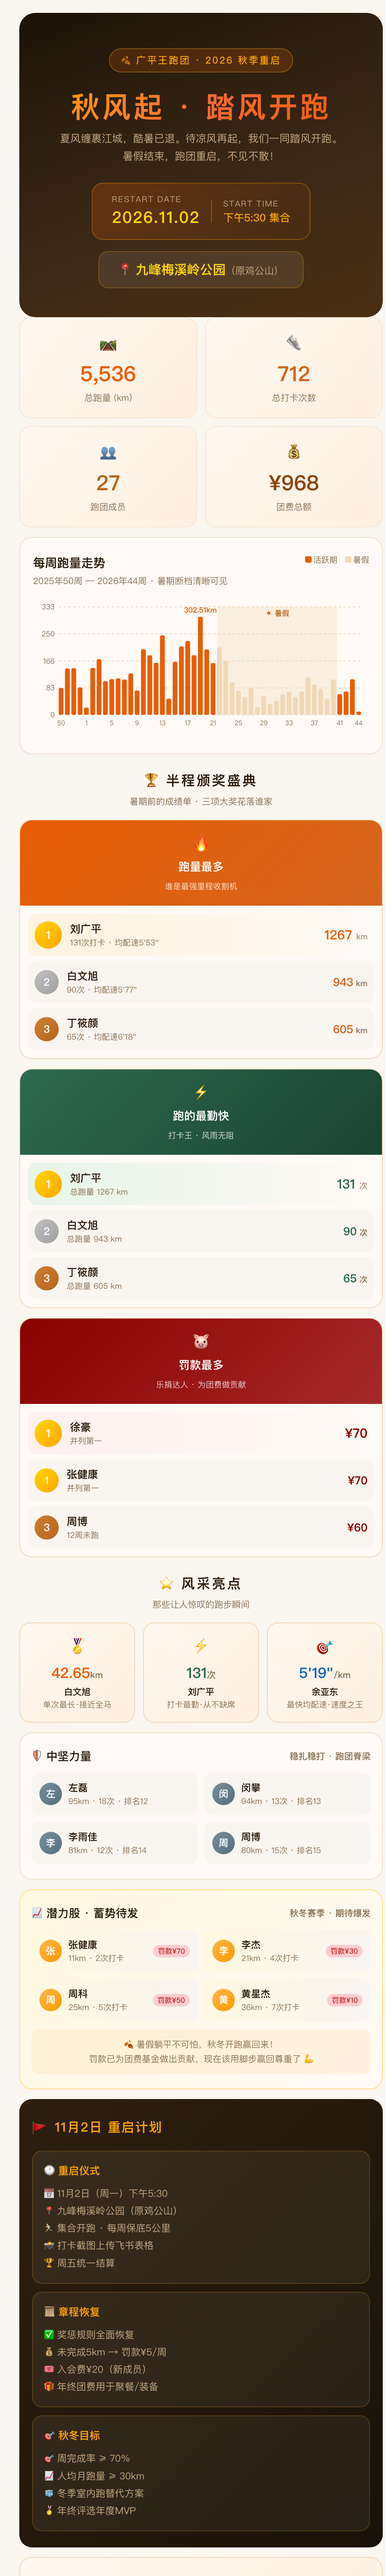
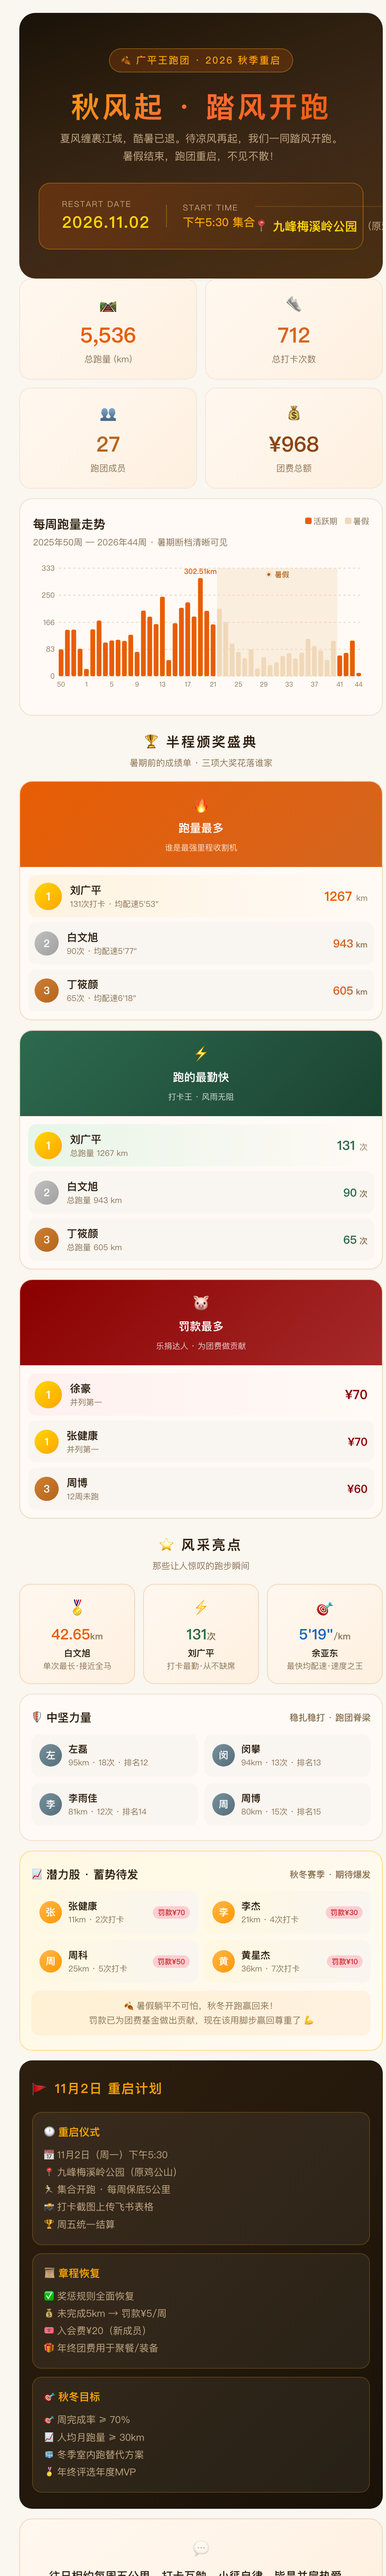
重构Hero信息区：地址整合到时间下方，统一卡片布局

Changed region(s): [[0.0312, 0.0625, 1.0, 1.0], [0.9062, 0.1875, 0.9375, 0.2188], [0.3438, 0.6875, 0.375, 0.7188]]

diff --git a/index.html b/index.html
@@ -15,13 +15,16 @@ body{font-family:-apple-system,'PingFang SC','Noto Sans SC','Segoe UI',sans-seri
 .hero-badge{display:inline-block;padding:5px 14px;border-radius:999px;background:rgba(232,93,4,0.2);border:1px solid rgba(255,182,39,0.3);margin-bottom:20px;font-size:12px;letter-spacing:1.5px;color:#FAA307;font-weight:500;}
 .hero h1{font-size:36px;font-weight:700;margin:0 0 6px;letter-spacing:3px;line-height:1.25;background:linear-gradient(135deg,#FAA307,#FF6B35,#E85D04);-webkit-background-clip:text;-webkit-text-fill-color:transparent;background-clip:text;color:#FAA307;}
 .hero p{font-size:13px;color:#c4a884;margin:0 0 22px;line-height:1.7;}
-.hero-date{display:inline-flex;display:-webkit-inline-flex;align-items:center;-webkit-align-items:center;gap:14px;padding:12px 24px;border-radius:14px;background:linear-gradient(135deg,rgba(232,93,4,0.25),rgba(74,47,18,0.4));border:1px solid rgba(250,163,7,0.35);}
+.hero-info{display:inline-block;display:-webkit-inline-box;padding:16px 28px;border-radius:14px;background:linear-gradient(135deg,rgba(232,93,4,0.25),rgba(74,47,18,0.4));border:1px solid rgba(250,163,7,0.35);text-align:left;}
+.hero-info-row{display:flex;display:-webkit-flex;align-items:center;-webkit-align-items:center;gap:20px;}
+.hero-info-item{text-align:left;}
 .hero-date-label{font-size:10px;color:#c4a884;letter-spacing:1px;}
 .hero-date-value{font-size:20px;font-weight:700;color:#FFD60A;letter-spacing:1px;}
 .hero-divider{width:1px;height:28px;background:rgba(255,214,10,0.3);}
-.hero-date-value2{font-size:13px;font-weight:500;color:#FAA307;}
-.hero-location{margin-top:14px;display:inline-block;display:-webkit-inline-box;padding:10px 24px;border-radius:12px;background:rgba(255,255,255,0.08);border:1px solid rgba(250,163,7,0.25);}
-.hero-location-name{font-size:16px;font-weight:600;color:#FFD60A;}
+.hero-date-value2{font-size:14px;font-weight:500;color:#FAA307;}
+.hero-location-row{margin-top:12px;padding-top:12px;border-top:1px solid rgba(250,163,7,0.2);display:flex;display:-webkit-flex;align-items:center;-webkit-align-items:center;gap:6px;}
+.hero-location-icon{font-size:16px;}
+.hero-location-name{font-size:15px;font-weight:600;color:#FFD60A;}
 .hero-location-sub{font-size:12px;color:#c4a884;}
 
 /* Stats */
@@ -122,20 +125,23 @@ body{font-family:-apple-system,'PingFang SC','Noto Sans SC','Segoe UI',sans-seri
   <div class="hero-badge">🍂 广平王跑团 · 2026 秋季重启</div>
   <h1>秋风起 · 踏风开跑</h1>
   <p>夏风缠裹江城，酷暑已退。待凉风再起，我们一同踏风开跑。<br>暑假结束，跑团重启，不见不散！</p>
-  <div class="hero-date">
-    <div style="text-align:left;">
-      <div class="hero-date-label">RESTART DATE</div>
-      <div class="hero-date-value">2026.11.02</div>
+  <div class="hero-info">
+    <div class="hero-info-row">
+      <div class="hero-info-item">
+        <div class="hero-date-label">RESTART DATE</div>
+        <div class="hero-date-value">2026.11.02</div>
+      </div>
+      <div class="hero-divider"></div>
+      <div class="hero-info-item">
+        <div class="hero-date-label">START TIME</div>
+        <div class="hero-date-value2">下午5:30 集合</div>
+      </div>
     </div>
-    <div class="hero-divider"></div>
-    <div style="text-align:left;">
-      <div class="hero-date-label">START TIME</div>
-      <div class="hero-date-value2">下午5:30 集合</div>
+    <div class="hero-location-row">
+      <span class="hero-location-icon">📍</span>
+      <span class="hero-location-name">九峰梅溪岭公园</span>
+      <span class="hero-location-sub">（原鸡公山）</span>
     </div>
-  </div>
-  <div class="hero-location">
-    <span class="hero-location-name">📍 九峰梅溪岭公园</span>
-    <span class="hero-location-sub">（原鸡公山）</span>
   </div>
 </section>
 

diff --git a/广平王跑团-秋季重启画报.html b/广平王跑团-秋季重启画报.html
@@ -15,13 +15,16 @@ body{font-family:-apple-system,'PingFang SC','Noto Sans SC','Segoe UI',sans-seri
 .hero-badge{display:inline-block;padding:5px 14px;border-radius:999px;background:rgba(232,93,4,0.2);border:1px solid rgba(255,182,39,0.3);margin-bottom:20px;font-size:12px;letter-spacing:1.5px;color:#FAA307;font-weight:500;}
 .hero h1{font-size:36px;font-weight:700;margin:0 0 6px;letter-spacing:3px;line-height:1.25;background:linear-gradient(135deg,#FAA307,#FF6B35,#E85D04);-webkit-background-clip:text;-webkit-text-fill-color:transparent;background-clip:text;color:#FAA307;}
 .hero p{font-size:13px;color:#c4a884;margin:0 0 22px;line-height:1.7;}
-.hero-date{display:inline-flex;display:-webkit-inline-flex;align-items:center;-webkit-align-items:center;gap:14px;padding:12px 24px;border-radius:14px;background:linear-gradient(135deg,rgba(232,93,4,0.25),rgba(74,47,18,0.4));border:1px solid rgba(250,163,7,0.35);}
+.hero-info{display:inline-block;display:-webkit-inline-box;padding:16px 28px;border-radius:14px;background:linear-gradient(135deg,rgba(232,93,4,0.25),rgba(74,47,18,0.4));border:1px solid rgba(250,163,7,0.35);text-align:left;}
+.hero-info-row{display:flex;display:-webkit-flex;align-items:center;-webkit-align-items:center;gap:20px;}
+.hero-info-item{text-align:left;}
 .hero-date-label{font-size:10px;color:#c4a884;letter-spacing:1px;}
 .hero-date-value{font-size:20px;font-weight:700;color:#FFD60A;letter-spacing:1px;}
 .hero-divider{width:1px;height:28px;background:rgba(255,214,10,0.3);}
-.hero-date-value2{font-size:13px;font-weight:500;color:#FAA307;}
-.hero-location{margin-top:14px;display:inline-block;display:-webkit-inline-box;padding:10px 24px;border-radius:12px;background:rgba(255,255,255,0.08);border:1px solid rgba(250,163,7,0.25);}
-.hero-location-name{font-size:16px;font-weight:600;color:#FFD60A;}
+.hero-date-value2{font-size:14px;font-weight:500;color:#FAA307;}
+.hero-location-row{margin-top:12px;padding-top:12px;border-top:1px solid rgba(250,163,7,0.2);display:flex;display:-webkit-flex;align-items:center;-webkit-align-items:center;gap:6px;}
+.hero-location-icon{font-size:16px;}
+.hero-location-name{font-size:15px;font-weight:600;color:#FFD60A;}
 .hero-location-sub{font-size:12px;color:#c4a884;}
 
 /* Stats */
@@ -122,20 +125,23 @@ body{font-family:-apple-system,'PingFang SC','Noto Sans SC','Segoe UI',sans-seri
   <div class="hero-badge">🍂 广平王跑团 · 2026 秋季重启</div>
   <h1>秋风起 · 踏风开跑</h1>
   <p>夏风缠裹江城，酷暑已退。待凉风再起，我们一同踏风开跑。<br>暑假结束，跑团重启，不见不散！</p>
-  <div class="hero-date">
-    <div style="text-align:left;">
-      <div class="hero-date-label">RESTART DATE</div>
-      <div class="hero-date-value">2026.11.02</div>
+  <div class="hero-info">
+    <div class="hero-info-row">
+      <div class="hero-info-item">
+        <div class="hero-date-label">RESTART DATE</div>
+        <div class="hero-date-value">2026.11.02</div>
+      </div>
+      <div class="hero-divider"></div>
+      <div class="hero-info-item">
+        <div class="hero-date-label">START TIME</div>
+        <div class="hero-date-value2">下午5:30 集合</div>
+      </div>
     </div>
-    <div class="hero-divider"></div>
-    <div style="text-align:left;">
-      <div class="hero-date-label">START TIME</div>
-      <div class="hero-date-value2">下午5:30 集合</div>
+    <div class="hero-location-row">
+      <span class="hero-location-icon">📍</span>
+      <span class="hero-location-name">九峰梅溪岭公园</span>
+      <span class="hero-location-sub">（原鸡公山）</span>
     </div>
-  </div>
-  <div class="hero-location">
-    <span class="hero-location-name">📍 九峰梅溪岭公园</span>
-    <span class="hero-location-sub">（原鸡公山）</span>
   </div>
 </section>
 
